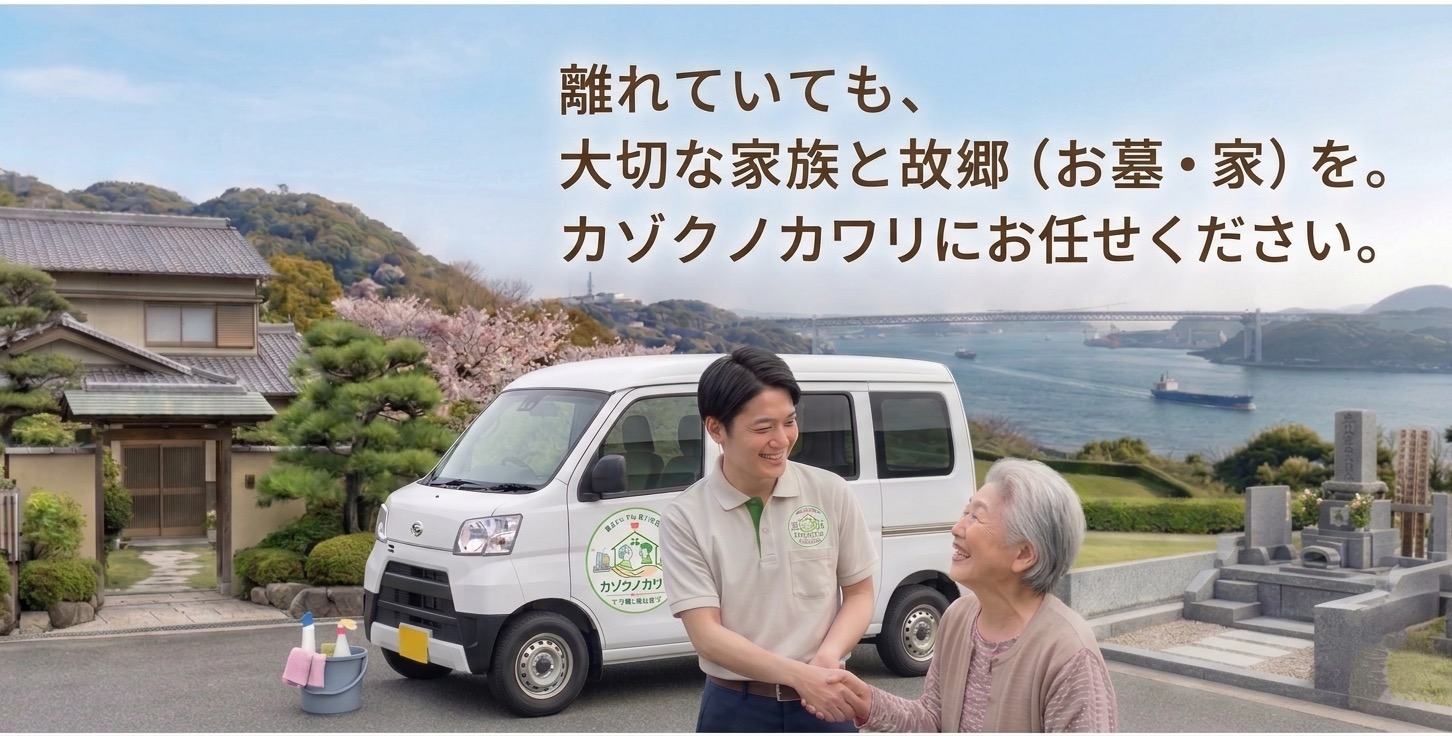
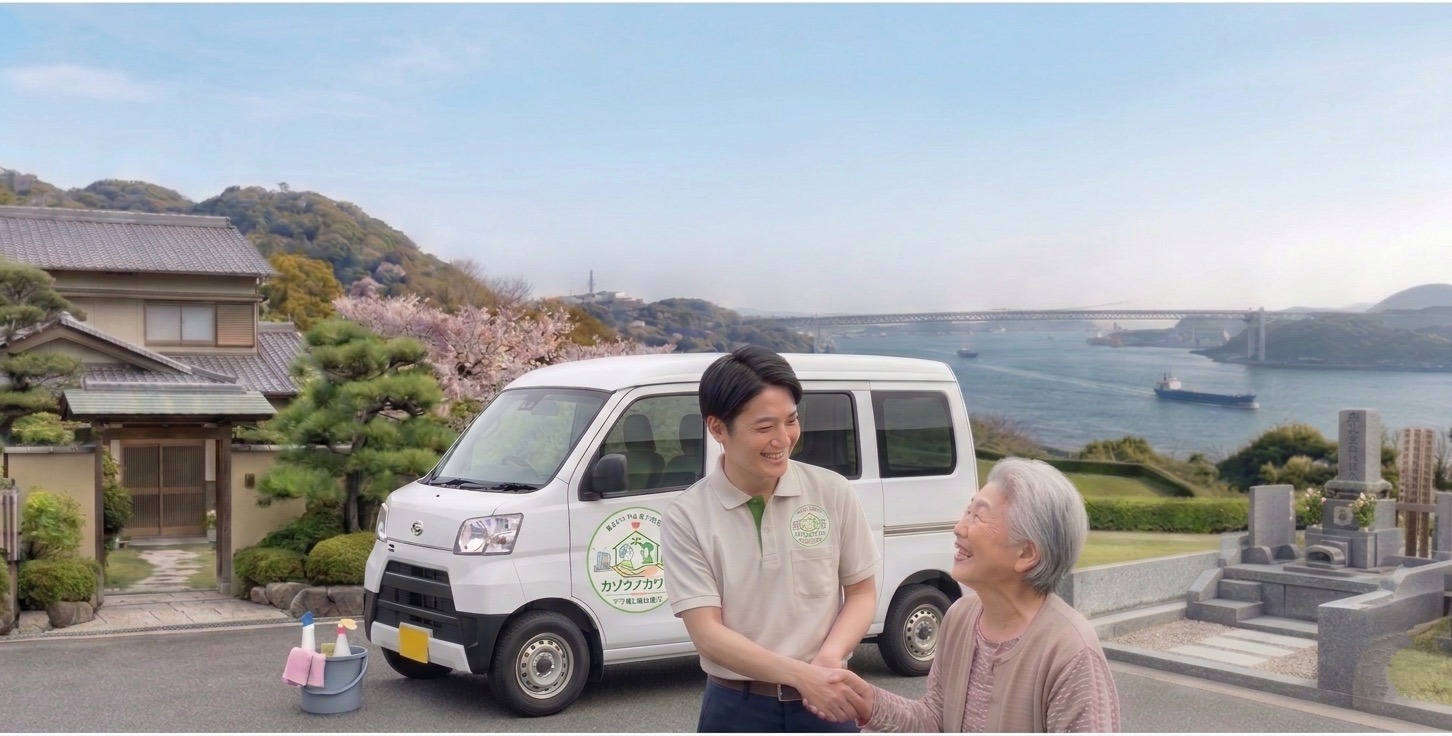
fix: update hero background image

diff --git a/assets/css/style.css b/assets/css/style.css
@@ -154,12 +154,12 @@
   content: "";
   position: absolute;
   inset: -18px;
-  background-image: url("../images/hero-bg.jpg?v=20260521-hero-bg-muted-v1");
+  background-image: url("../images/hero-bg.jpg?v=20260521-hero-bg-clean-v2");
   background-size: cover;
   background-position: center;
   background-repeat: no-repeat;
-  opacity: 0.18;
-  filter: blur(6px) saturate(0.9);
+  opacity: 0.34;
+  filter: none;
   transform: scale(1.05);
   pointer-events: none;
   z-index: 0;
